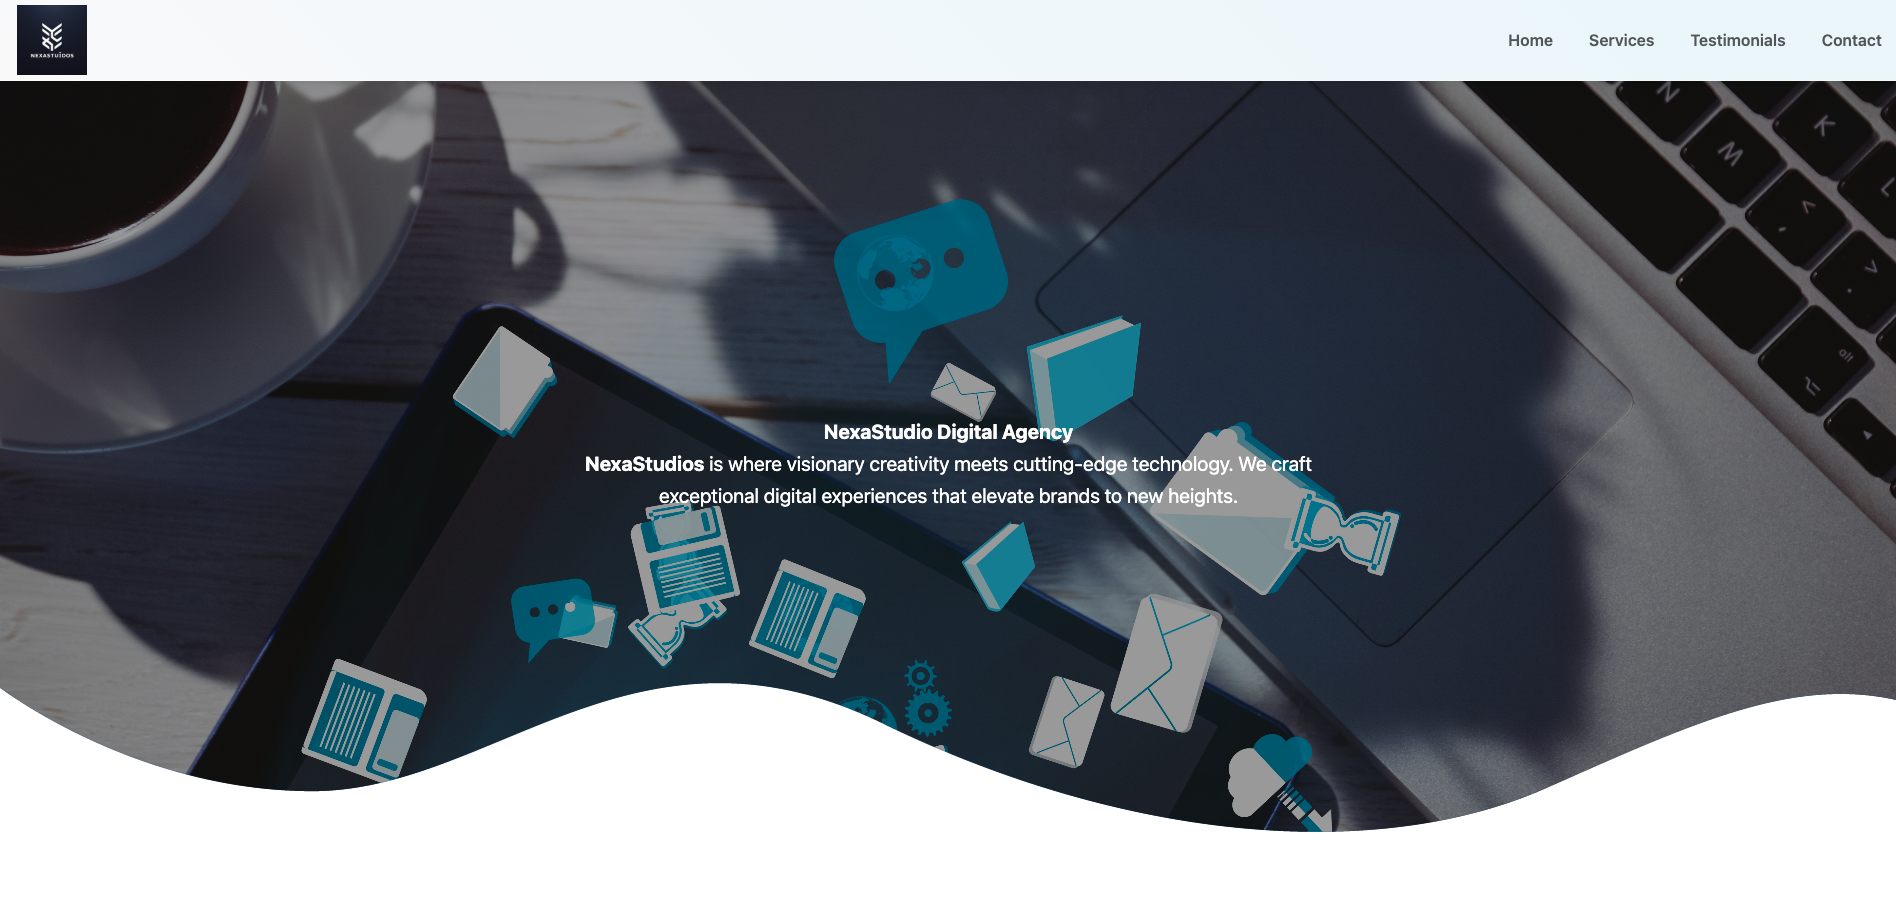
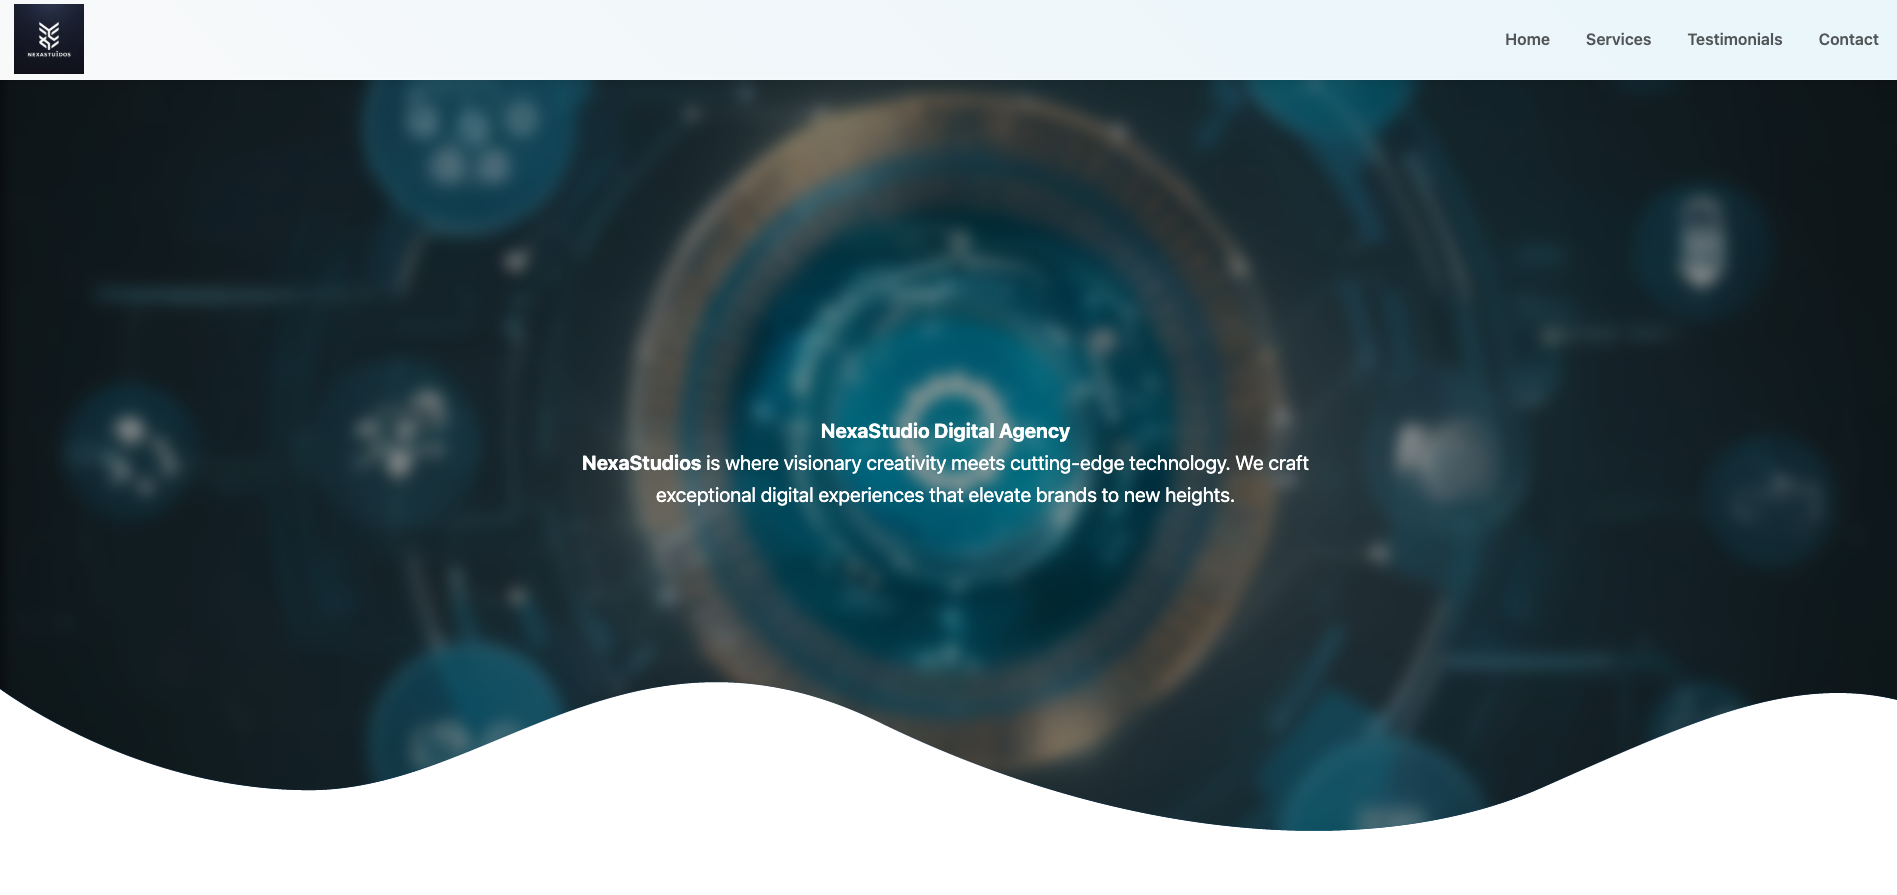
modified hero

diff --git a/style.css b/style.css
@@ -89,17 +89,18 @@ body {
 /* Banner section */
 #banner {
     position: relative;
-    background-image: url('images/home2.jpg'); /* Set hero image */
-    background-size: cover; /* Ensures it covers the full area */
-    background-position: center; /* Centers the image */
+    background-image: url('images/home2.png'); /*  hero image */
+    background-size: cover; 
+    background-position: center; 
     background-repeat: no-repeat;
-    height: 80vh; /* Adjust height as needed */
+    height: 80vh; 
     display: flex;
     align-items: center;
     justify-content: center;
     text-align: center;
     color: #2a1919;
     padding: 50px 15px;
+
 }
 
 .promo-title {
@@ -125,6 +126,8 @@ body {
     width: 100%;
     height: 100%;
     background: rgba(0, 0, 0, 0.4); /* Dark overlay */
+    backdrop-filter: blur(8px); 
+  
 }
 
 /* Content inside the banner */
@@ -349,11 +352,11 @@ body {
    transform: translateY(-10px);
 }
 
-/* Footer section */
+
 /* Footer Section */
 #footer {
     position: relative;
-    background-image: url('images/home2.jpg'); 
+    background-image: url('images/home2.png'); 
     background-size: cover;
     background-position: center;
     background-repeat: no-repeat;
@@ -373,11 +376,11 @@ body {
     content: "";
     position: absolute;
     inset: 0;
-    background-image: url('images/home2.jpg'); /* Same image */
+    background-image: url('images/home2.png');
     background-size: cover;
     background-position: center;
     filter: blur(10px);
-    opacity: 0.6; /* Adjusted for better readability */
+    opacity: 0.6; 
     z-index: 0;
 }
 
@@ -386,7 +389,7 @@ body {
     content: "";
     position: absolute;
     inset: 0;
-    background: rgba(0, 0, 0, 0.4); /* Darkened overlay for better text visibility */
+    background: rgba(0, 0, 0, 0.4);
     z-index: 1;
 }
 
@@ -399,11 +402,11 @@ body {
 /* Wave Image for Footer */
 #footer .footer-img {
     position: absolute;
-    top: -2px; /* Aligns perfectly with section above */
+    top: -2px; 
     left: 0;
     width: 100%;
     transform: rotate(180deg);
-    z-index: 3; /* Ensures it's above the background */
+    z-index: 3; 
 }
 
 /* Footer Content Wrapper */
